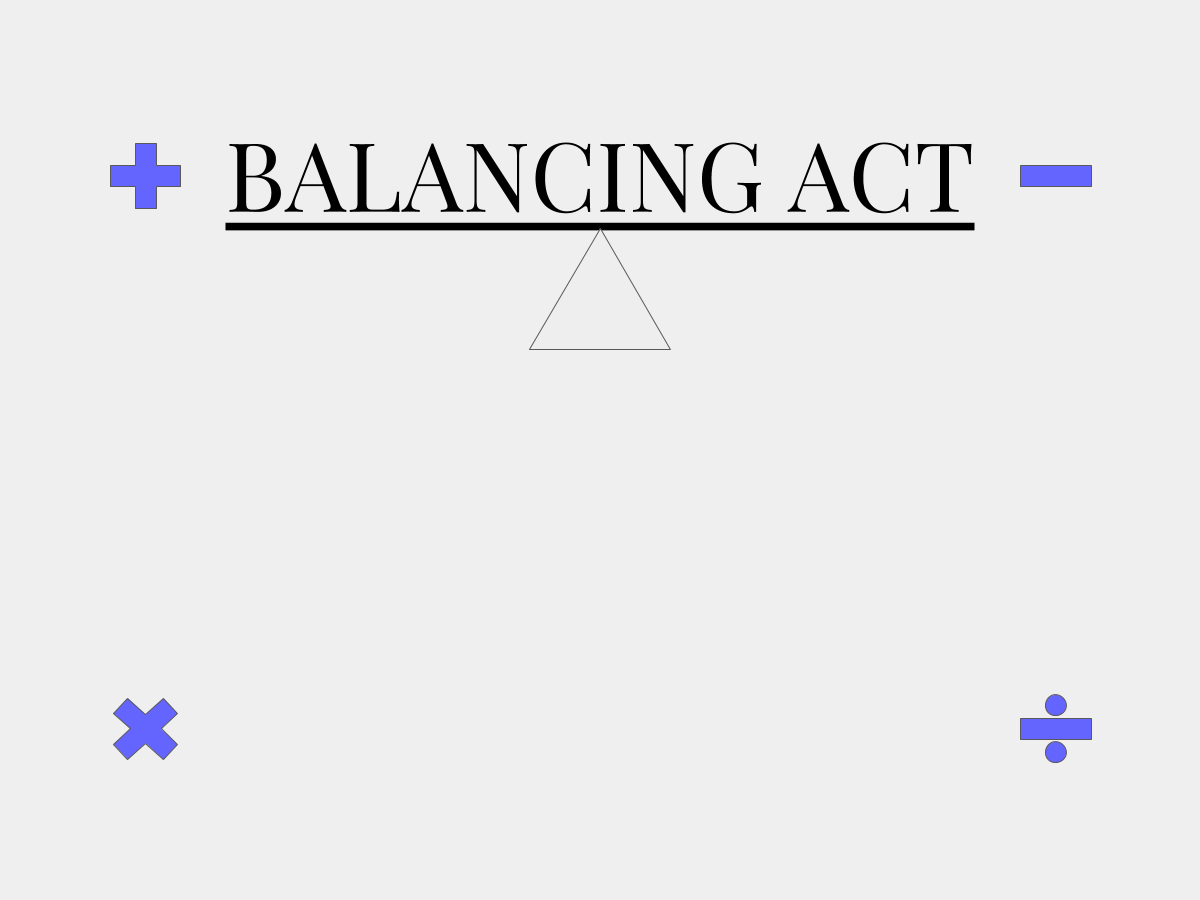
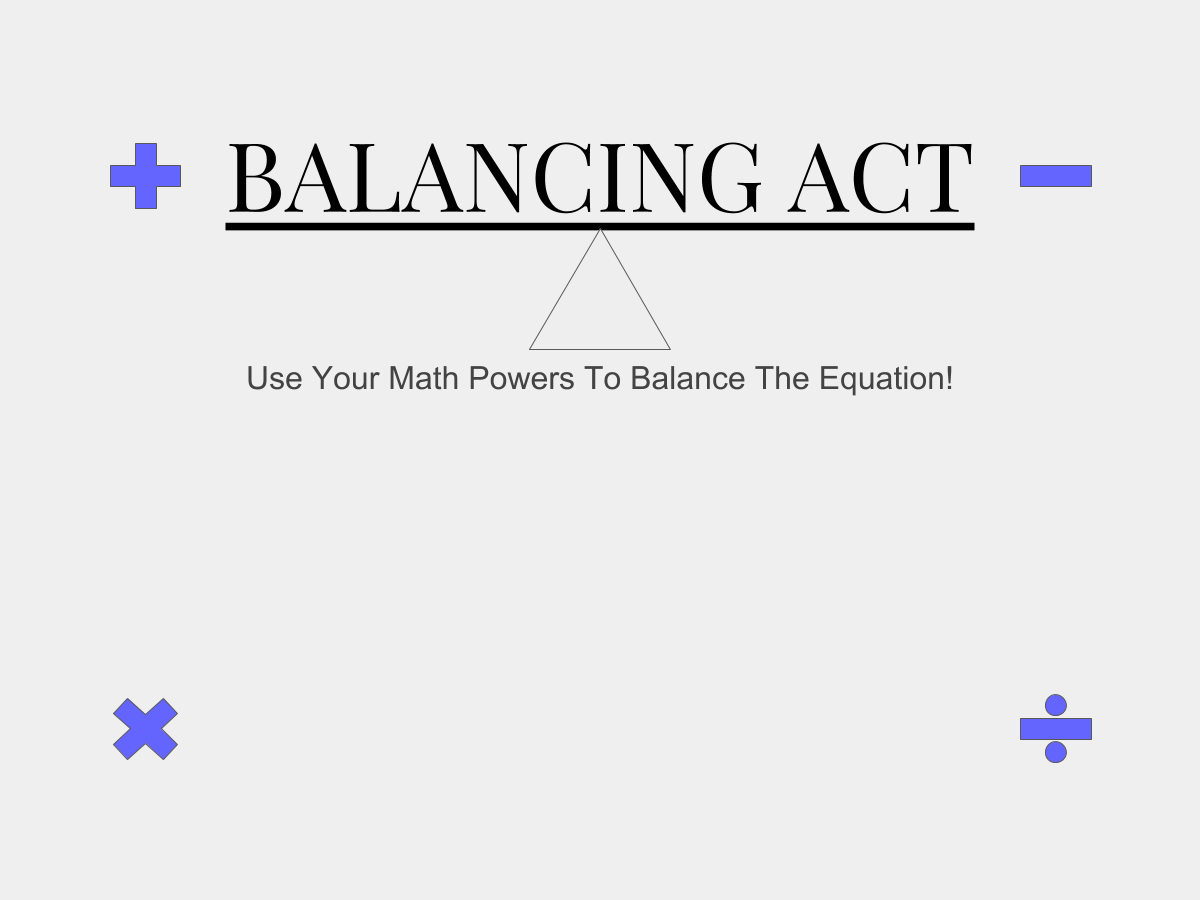
Made an instructions screen and moved a few assests around

Changed region(s): [[0.185, 0.4044, 0.8017, 0.4356]]

diff --git a/BalancingAct.py b/BalancingAct.py
@@ -33,6 +33,7 @@ class BalancingAct:
     	self.rightHandProduct = 0
     	
     	self.img = pygame.image.load("images/example.png")
+    	self.instructionImg = pygame.image.load("images/exampleInstruction.png")
     	self.backgroundImg = pygame.image.load("images/exampleBackground.png")
     	pygame.transform.scale(self.img,(self.screenWidth,self.screenHeight))
 
@@ -66,7 +67,7 @@ class BalancingAct:
         self.buttonW = 300;
         self.buttonH = 60;
         self.buttonX = (self.screenWidth/2) - (self.buttonW/2)
-        self.buttonY = [200,400,500,600]
+        self.buttonY = [200,500,600,700]
 
         #color palette
         self.black = (0,0,0)
@@ -300,7 +301,7 @@ class BalancingAct:
     #end the current problem and enable next problem button
     def showCorrect(self):
         self.buttonsEnabled = False;
-        self.button('Next Problem',self.bright_green,self.green,self.screenWidth-400,self.screenHeight-120,400,120,self.reset_problem)
+        self.button('Next Problem',self.bright_green,self.green,self.screenWidth-405,self.screenHeight-200,400,120,self.reset_problem)
 
     # Start the game 
     def startPlay(self):
@@ -341,16 +342,15 @@ class BalancingAct:
 
     # The screen for the instrucitons
     def drawInstructionState(self):
-        self.screen.blit(self.img,(0,0))
-        self.textBox(str(self.screenWidth) + " " + str(self.screenHeight),100,600,120,50)
-        self.button('Back',self.bright_blue,self.blue,self.buttonX,self.buttonY[2],self.buttonW,self.buttonH,self.returnToMenu)
+        self.screen.blit(self.instructionImg,(0,0))
+        self.button('Back',self.bright_blue,self.blue,5,5,self.buttonW,self.buttonH,self.returnToMenu)
 
     # The screen during play
     def drawPlayState(self):
         self.button('MENU',self.bright_blue,self.blue,5,5,120,50,self.returnToMenu)
         self.button('NEW PROBLEM',self.bright_green,self.green,200,5,320,50,self.new_problem)
-        self.textBox("Score: " + str(self.score), 10, 60, 120, 50)
-        self.textBox("Level: " + str(self.level), 10, 105, 120, 50)
+        self.textBox("Score: " + str(self.score), 30, 60, 120, 50)
+        self.textBox("Level: " + str(self.level), 30, 105, 120, 50)
 
         #update text
         self.problemText = str("x" + str(self.leftHandMultiplier) + "      " + str(self.operator) + "      x" +  str(self.rightHandMultiplier))
